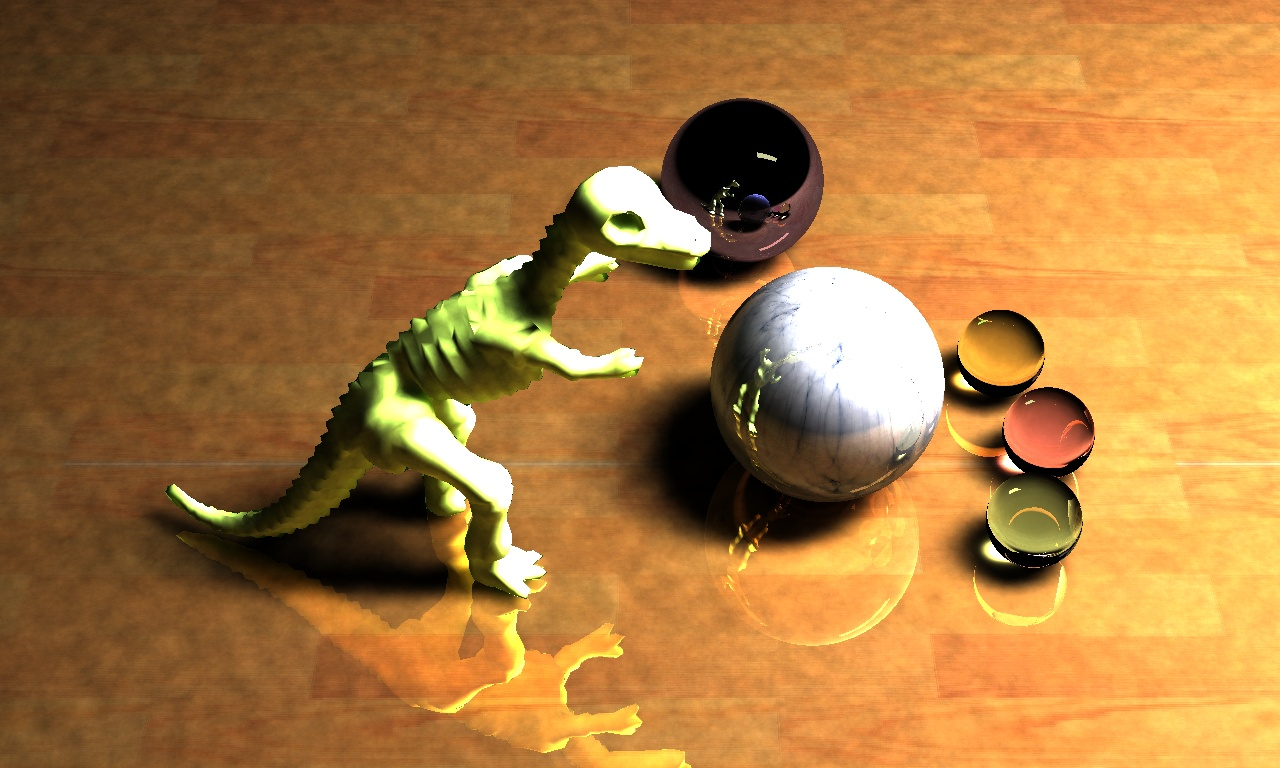
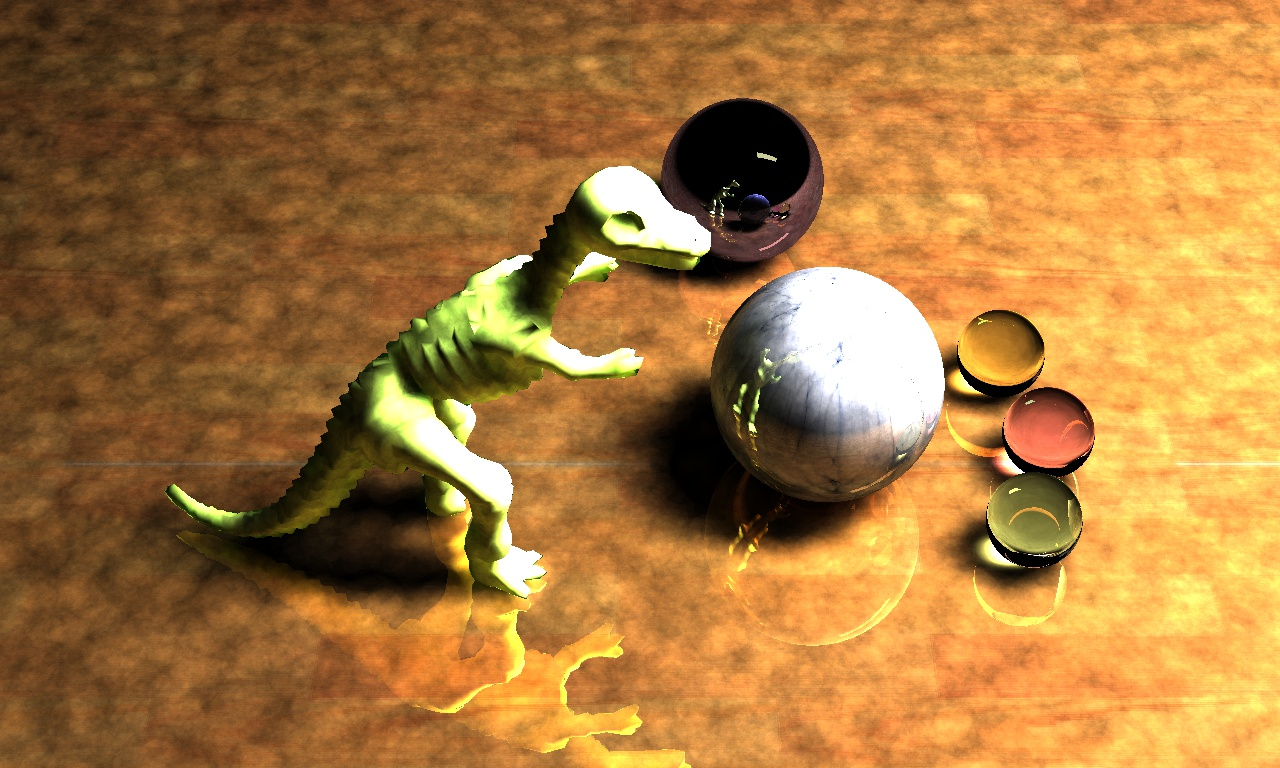
233

diff --git a/src/photon_mapper.cpp b/src/photon_mapper.cpp
@@ -76,13 +76,14 @@ void PhotonMapper::solve(){
         for(int j = 0;j < scene.camera.film->getM();j++)
             directmap[i][j] = scene.camera.film->getColor(i, j);
     cerr<< "finish buildHitMap"<<endl;
-    const int rounds = 2000, photon_num = 3000000;
+    const int rounds = 100000, photon_num = 3000000;
     double source_energy = 2400;
     double r = 0.1;
+    long long seed = 1000;
     for(int rd = 0; rd < rounds; rd++){
         cout << "new round "<<rd <<endl;
         for(int i = 0;i < photon_num;i++){
-            int seed = rd * photon_num + i + 1000;
+            seed ++;
             photonTrace(scene.light_source->getPhoton(seed), 0, Color(0,0,0), scene.light_source->color, r, 4, seed);
             //cout << "emit a photon"<<endl;
         }
@@ -108,7 +109,7 @@ void PhotonMapper::solve(){
     }
 }
 
-void PhotonMapper::photonTrace(const Ray& ray, int times, Color absorbing, Color phi, double r, int d3, int seed){
+void PhotonMapper::photonTrace(const Ray& ray, int times, Color absorbing, Color phi, double r, int d3, long long seed){
     Collider c;
     Object * obj = scene.firstObject(ray, c);
     if(!c.collided_num) return;

diff --git a/src/include/photon_mapper.h b/src/include/photon_mapper.h
@@ -14,5 +14,5 @@ public:
     /* data */
     void buildHitMap();
     void calc(Ray& ray, int times, Color absorbing, int xx, int yy, Color weight);
-    void photonTrace(const Ray& ray, int times, Color absorbing, Color phi, double r, int d3, int seed);
+    void photonTrace(const Ray& ray, int times, Color absorbing, Color phi, double r, int d3, long long seed);
 };

diff --git a/src/rect_source.cpp b/src/rect_source.cpp
@@ -30,7 +30,7 @@ Collider RectSource::collide(Ray & ray){
     return ret;
 }
 
-Ray RectSource::getPhoton(int i){
+Ray RectSource::getPhoton(long long i){
     double p = 2. * PI * hal(2, i), t = 2. * acos(sqrt(1.-hal(3, i)));
     Vec3 pos = (vertices[3] - vertices[0]) * hal(0, i) + (vertices[1] - vertices[0]) * hal(1, i) + vertices[0];
     double st = sin(t);

diff --git a/src/point_source.cpp b/src/point_source.cpp
@@ -18,7 +18,7 @@ Collider PointSource::collide(Ray & ray){
     }
 }
 
-Ray PointSource::getPhoton(int i){
+Ray PointSource::getPhoton(long long i){
     double p = 2. * PI * hal(0, i), t = 2. * acos(sqrt(1.-hal(1, i)));
         double st = sin(t);
     return Ray(pos, Vec3(cos(p) * st, cos(t), sin(p) * st));

diff --git a/basic/include/const.h b/basic/include/const.h
@@ -14,7 +14,7 @@ const int primes[61]={
 inline int rev(const int i,const int p) {
   if (i==0) return i; else return p-i;
 }
-inline double hal(const int b, int j) {
+inline double hal(const int b, long long j) {
   const int p = primes[b]; 
   double h = 0.0, f = 1.0 / (double)p, fct = f;
   while (j > 0) {

diff --git a/src/include/rect_source.h b/src/include/rect_source.h
@@ -12,6 +12,6 @@ public:
     Vec3 vertices[4];
     virtual std::vector<Ray> getLights(Vec3 aim);
     virtual Collider collide(Ray &);
-    virtual Ray getPhoton(int roundnum);
+    virtual Ray getPhoton(long long roundnum);
     friend std::istream& operator >> (std::istream& fin, RectSource& p);
 };

diff --git a/src/include/point_source.h b/src/include/point_source.h
@@ -10,6 +10,6 @@ public:
     Vec3 pos;
     virtual std::vector<Ray> getLights(Vec3 aim);
     virtual Collider collide(Ray &);
-    virtual Ray getPhoton(int roundnum);
+    virtual Ray getPhoton(long long roundnum);
     friend std::istream& operator >> (std::istream& fin, PointSource& p);
 };

diff --git a/src/include/source.h b/src/include/source.h
@@ -9,6 +9,6 @@ public:
     /* data */
     virtual std::vector<Ray> getLights(Vec3 aim) = 0;// attention: aim => source
     virtual Collider collide( Ray &) = 0;
-    virtual Ray getPhoton(int roundnum) = 0;
+    virtual Ray getPhoton(long long roundnum) = 0;
     virtual ~Source(){}
 };
